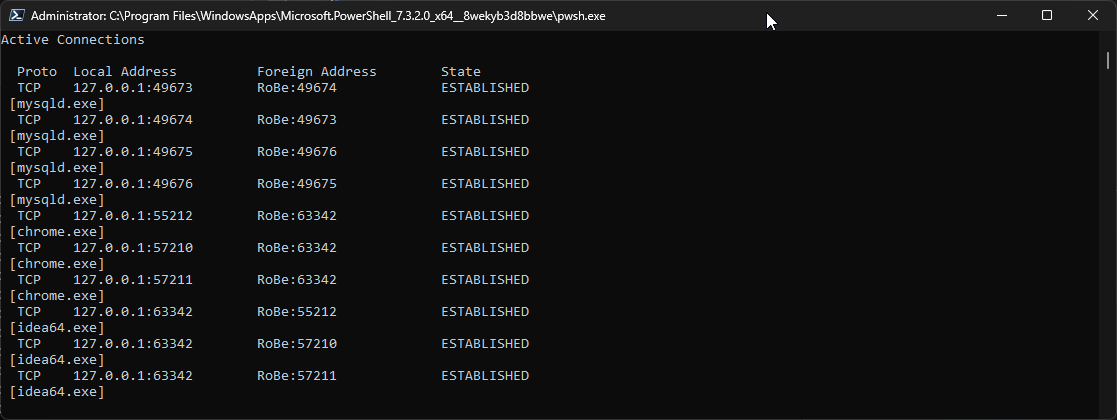
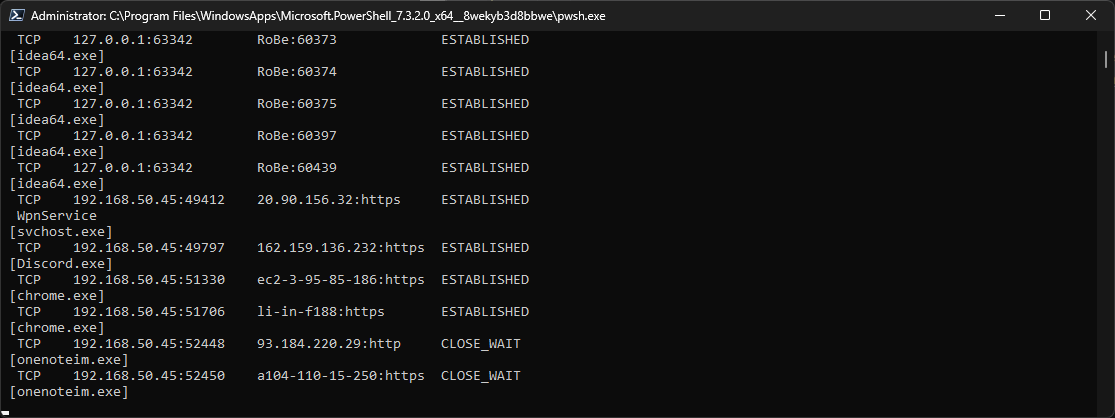
Content

diff --git a/index.html b/index.html
@@ -32,6 +32,7 @@
 <div class="content">
     <div class="container">
         <h1>Network Commands (CMD & Powershell)</h1>
+        <br/>
         <h2>ping - Pinging</h2>
         <p>
             The ping command can be used to check your ping to any IP adress it is commonly used to check if your device
@@ -65,7 +66,7 @@
 
         <h2>netsat - Display active connections</h2>
         <p>
-            <img src="images/netstat.png" alt="A Picture">
+            <img src="images/netstat-b.png" alt="A Picture">
         </p>
 
         <h2>#6</h2>
